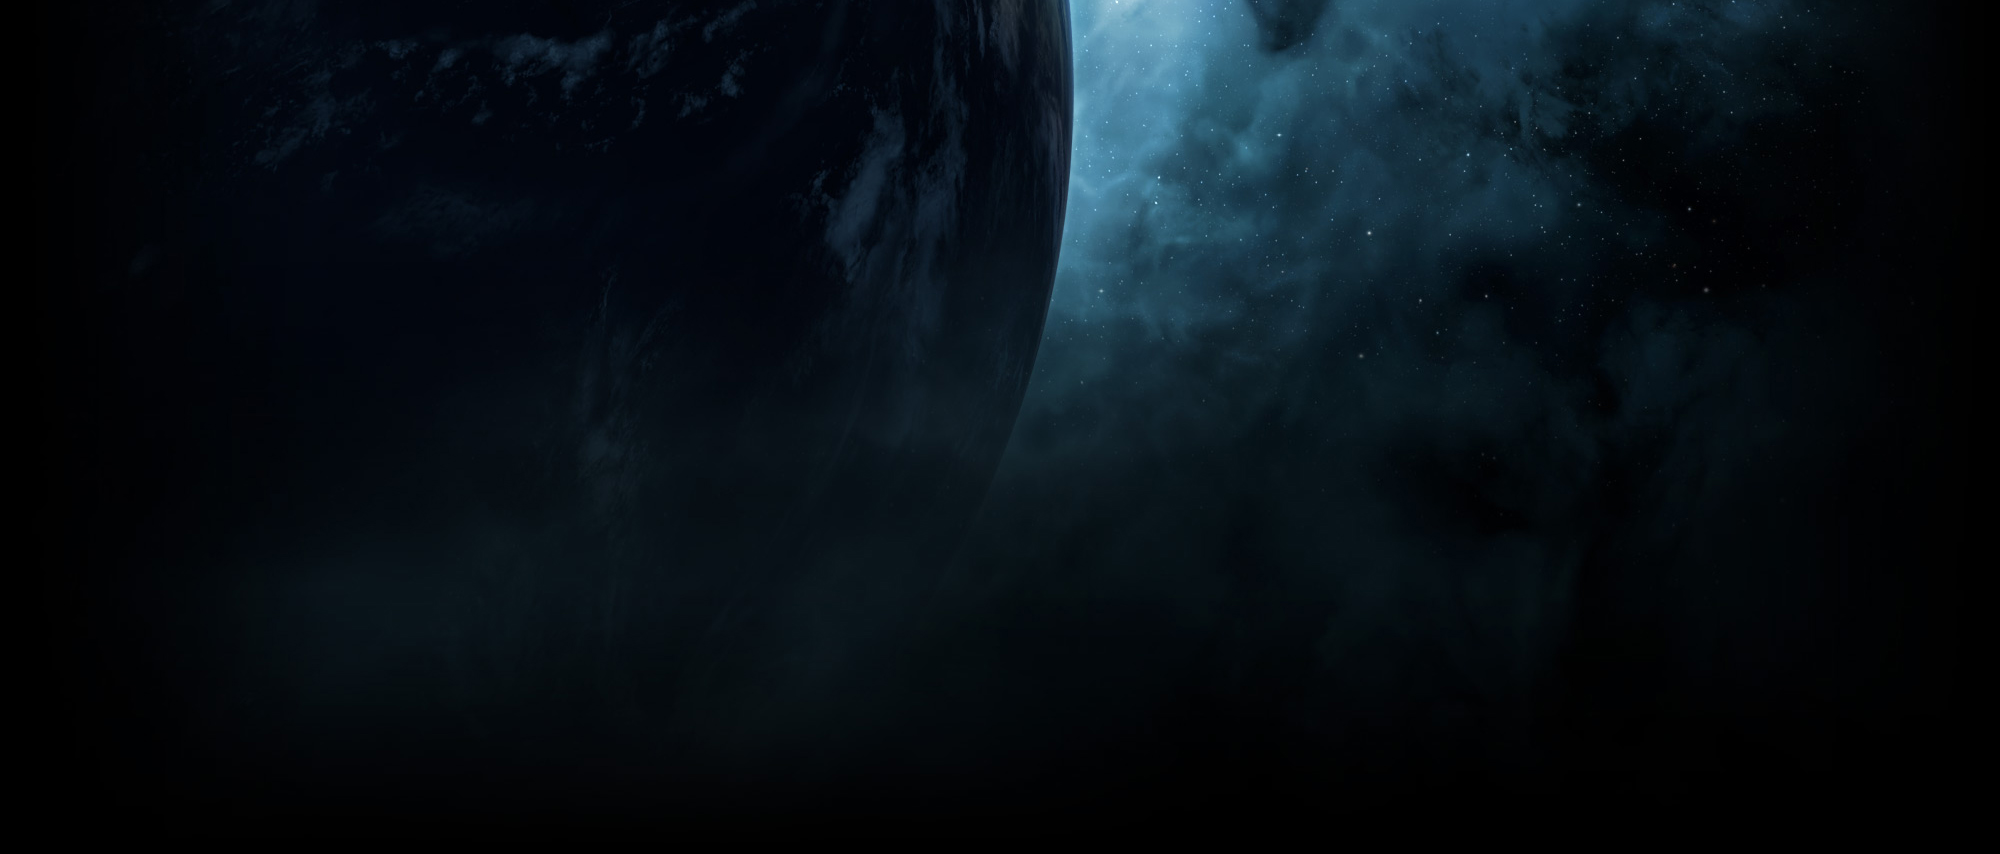
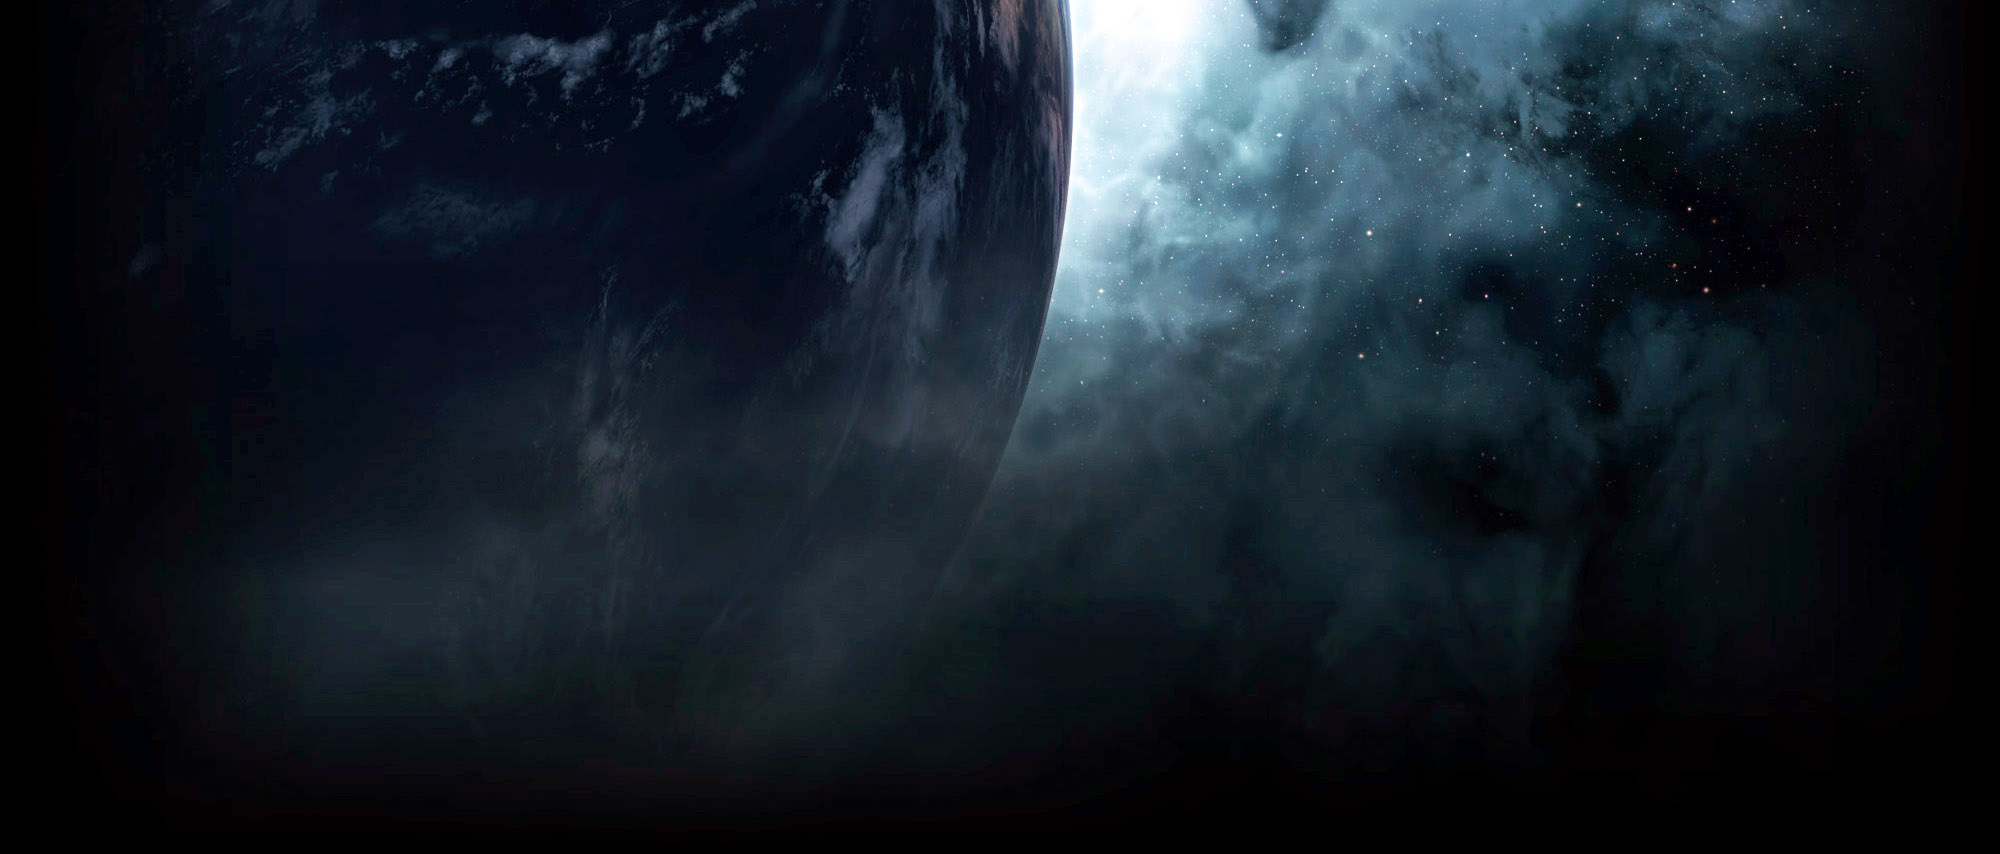
removed generated assets, addeed new background images, fixed bg repeat, started kill log data, created some app helpers

diff --git a/vendor/assets/javascripts/jquery.cookie.js b/vendor/assets/javascripts/jquery.cookie.js
@@ -1,0 +1,72 @@
+/*!
+ * jQuery Cookie Plugin v1.3
+ * https://github.com/carhartl/jquery-cookie
+ *
+ * Copyright 2011, Klaus Hartl
+ * Dual licensed under the MIT or GPL Version 2 licenses.
+ * http://www.opensource.org/licenses/mit-license.php
+ * http://www.opensource.org/licenses/GPL-2.0
+ */
+(function ($, document, undefined) {
+
+	var pluses = /\+/g;
+
+	function raw(s) {
+		return s;
+	}
+
+	function decoded(s) {
+		return decodeURIComponent(s.replace(pluses, ' '));
+	}
+
+	var config = $.cookie = function (key, value, options) {
+
+		// write
+		if (value !== undefined) {
+			options = $.extend({}, config.defaults, options);
+
+			if (value === null) {
+				options.expires = -1;
+			}
+
+			if (typeof options.expires === 'number') {
+				var days = options.expires, t = options.expires = new Date();
+				t.setDate(t.getDate() + days);
+			}
+
+			value = config.json ? JSON.stringify(value) : String(value);
+
+			return (document.cookie = [
+				encodeURIComponent(key), '=', config.raw ? value : encodeURIComponent(value),
+				options.expires ? '; expires=' + options.expires.toUTCString() : '', // use expires attribute, max-age is not supported by IE
+				options.path    ? '; path=' + options.path : '',
+				options.domain  ? '; domain=' + options.domain : '',
+				options.secure  ? '; secure' : ''
+			].join(''));
+		}
+
+		// read
+		var decode = config.raw ? raw : decoded;
+		var cookies = document.cookie.split('; ');
+		for (var i = 0, l = cookies.length; i < l; i++) {
+			var parts = cookies[i].split('=');
+			if (decode(parts.shift()) === key) {
+				var cookie = decode(parts.join('='));
+				return config.json ? JSON.parse(cookie) : cookie;
+			}
+		}
+
+		return null;
+	};
+
+	config.defaults = {};
+
+	$.removeCookie = function (key, options) {
+		if ($.cookie(key) !== null) {
+			$.cookie(key, null, options);
+			return true;
+		}
+		return false;
+	};
+
+})(jQuery, document);

diff --git a/app/assets/stylesheets/site.css.scss b/app/assets/stylesheets/site.css.scss
@@ -12,14 +12,21 @@ $white: #fff;
 body {
   position: relative;
   padding-top: 40px;
-  background-repeat: no-repeat;
-  &.recruitment,&.sessions {
-    @include background(url('2.jpg'));
-    background-color: #04090d;
-  }
-  &.home,&.registrations {
-    @include background(url('3.jpg'));
+  &.home {
+    @include background(url('3.jpg') top center no-repeat);
     background-color: #0d0e10;
+  }
+  &.recruitment, &.registrations.new {
+    @include background(url('4.jpg') top center no-repeat);
+    background-color: #000;
+  }
+  &.sessions {
+    @include background(url('5.jpg') top center no-repeat);
+    background-color: #000;
+  }
+  &.registrations.edit {
+    @include background(url('6.jpg') top center no-repeat);
+    background-color: #000;
   }
 }
 .mt15 {

diff --git a/app/assets/javascripts/site.js b/app/assets/javascripts/site.js
@@ -7,7 +7,18 @@ $(function(){
     e.preventDefault();
     $(this).tab('show');
   });
-  $('#characterTabs a:first').tab('show')
+
+  $('a[data-toggle="tab"]').on('shown', function(e){
+    $.cookie('last_tab', $(e.target).attr('href'));
+  });
+
+  var lastTab = $.cookie('last_tab');
+  if(lastTab){
+    $('a[href='+ lastTab +']').tab('show');
+  } else {
+    $('a[data-toggle="tab"]:first').tab('show')
+  };
+
   $('.dropdown-toggle').dropdown();
   $('a[rel="tooltip"]').tooltip();
 });

diff --git a/app/assets/javascripts/application.js b/app/assets/javascripts/application.js
@@ -13,4 +13,5 @@
 //= require jquery
 //= require jquery_ujs
 //= require bootstrap
+//= require jquery.cookie
 //= require_tree .

diff --git a/app/helpers/application_helper.rb b/app/helpers/application_helper.rb
@@ -18,4 +18,51 @@ module ApplicationHelper
   def devise_mapping
     @devise_mapping ||= Devise.mappings[:user]
   end
+
+  def id_to_name(id)
+    begin
+      EAAL.cache = EAAL::Cache::FileCache.new
+      api = EAAL::API.new('','')
+      api.scope = "eve"
+      api.CharacterName(:ids=>id).characters.first.name
+      #id
+    rescue EAAL::Exception::EveAPIException => e
+      flash[:error] = "#{e.message}"
+    end
+  end
+
+  def type_id_to_name(id)
+    begin
+      EAAL.cache = EAAL::Cache::FileCache.new
+      api = EAAL::API.new('','')
+      api.scope = "eve"
+      api.TypeName(:ids=>id).types.first.typeName
+    rescue EAAL::Exception::EveAPIException => e
+      flash[:error] = "#{e.message}"
+    end
+  end
+
+  def type_icon(id,size)
+    url = "http://image.eveonline.com/InventoryType/#{id}_#{size}.png"
+    html = "<img src='#{url}' width='#{size}' height='#{size}' alt='#{type_id_to_name(id)}' />"
+    return html.html_safe
+  end
+
+  def character_portrait(id,size)
+    url = "http://image.eveonline.com/Character/#{id}_#{size}.jpg"
+    html = "<img src='#{url}' width='#{size}' height='#{size}' alt='#{id_to_name(id)}' />"
+    return html.html_safe
+  end
+
+  def corp_logo(id,size)
+    url = "http://image.eveonline.com/Corporation/#{id}_#{size}.png"
+    html = "<img src='#{url}' width='#{size}' height='#{size}' alt='#{id_to_name(id)}' />"
+    return html.html_safe
+  end
+
+  def alliance_logo(id,size)
+    url = "http://image.eveonline.com/Alliance/#{id}_#{size}.png"
+    html = "<img src='#{url}' width='#{size}' height='#{size}' alt='#{id_to_name(id)}' />"
+    return html.html_safe
+  end
 end

diff --git a/app/controllers/character_controller.rb b/app/controllers/character_controller.rb
@@ -4,22 +4,29 @@ class CharacterController < ApplicationController
 
   def show
     @user = User.find(params[:user_id])
-    @character = charactersheet_eve_api(@user,params[:id])
-    @info = characterinfo_eve_api(@user,params[:id])
+    @character = character_sheet_eve_api(@user,params[:id])
+    @kills = character_kills_eve_api(@user,params[:id])
+    @info = character_info_eve_api(@user,params[:id])
     render :layout => 'admin'
   end
 
   private
-  def characterinfo_eve_api(user,character)
+  def character_info_eve_api(user,character)
     api = init_eve_api(user)
     api.scope = 'eve'
     api.CharacterInfo(:characterID => character)
   end
 
-  def charactersheet_eve_api(user,character)
+  def character_sheet_eve_api(user,character)
     api = init_eve_api(user)
     api.scope = 'char'
     api.CharacterSheet(:characterID => character)
+  end
+
+  def character_kills_eve_api(user,character)
+    api = init_eve_api(user)
+    api.scope = 'char'
+    api.KillLog(:characterID => character)
   end
 
   def init_eve_api(user)

diff --git a/app/helpers/character_helper.rb b/app/helpers/character_helper.rb
@@ -1,9 +1,2 @@
 module CharacterHelper
-  def id_to_name(id)
-    EAAL.cache = EAAL::Cache::FileCache.new
-    api = EAAL::API.new('','')
-    api.scope = "eve"
-    api.CharacterName(:ids=>id).characters.first.name
-    #id
-  end
 end
